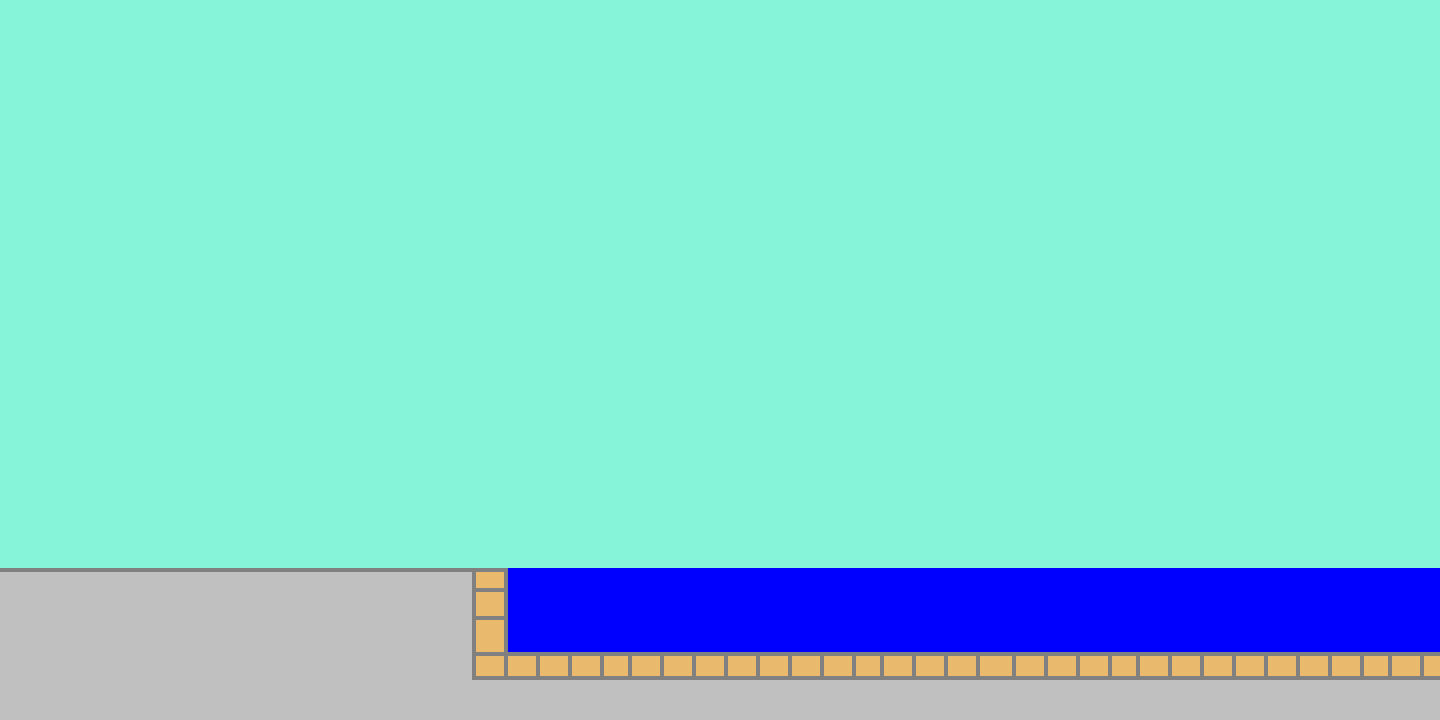
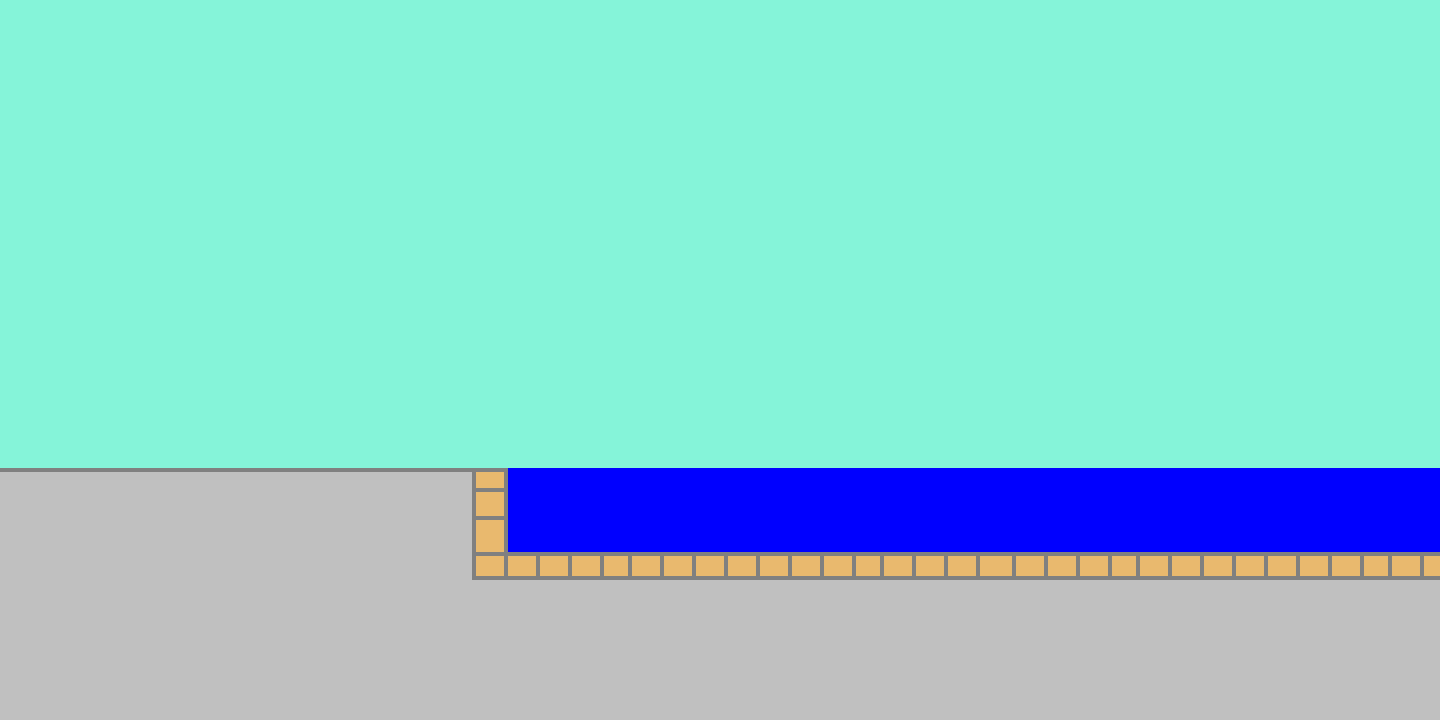
loading level two screen

Changed region(s): [[0.0, 0.6417, 1.0, 0.9472]]

diff --git a/lib/screens/level.two.dart b/lib/screens/level.two.dart
@@ -7,9 +7,12 @@ class LevelTwo extends StatefulWidget {
   _LevelTwoState createState() => _LevelTwoState();
 }
 
-class _LevelTwoState extends State<LevelTwo> {
+class _LevelTwoState extends State<LevelTwo> with TickerProviderStateMixin{
   @override
   Widget build(BuildContext context) {
+
+    xPos = moveAnimation.value;
+
     return Container(
       decoration: BoxDecoration(
         image: DecorationImage
@@ -19,11 +22,17 @@ class _LevelTwoState extends State<LevelTwo> {
       ),
       child: Column(
         children: <Widget>[
-          SizedBox(height: 270,),
+          SizedBox(height: 210,),
+          loadingLevelTwoScreen? 
+          Rute(
+            xOffset: 0,
+            yOffset: -400,
+            state : state,
+          )
+          :
           Rute(
             xOffset: xPos,
             yOffset: yPos,
-            state :ImageState.stillRight,
           )
         ],
       ),
@@ -34,8 +43,52 @@ class _LevelTwoState extends State<LevelTwo> {
   initState(){
     super.initState();
     Rute.folder = 'x2';
-    xPos = -350;
     yPos = 0;
-    
+    startLoading();
+    loadingLvl2AnimationController.forward();
+    startMoving();
+  }
+
+  void startLoading() {
+    loadingLvl2AnimationController = AnimationController(
+      duration: Duration(seconds: 2), vsync: this, value: 0.00);
+    loadingLvl2Animation =
+    Tween<double>(begin: 1200, end: 0).animate(loadingLvl2AnimationController)
+    ..addListener(() {
+      if(loadingLvl2Animation.value > 1000){
+        state = ImageState.rightRunning2;
+      }else if(loadingLvl2Animation.value > 900){
+        state = ImageState.rightRunning1;
+      }else if(loadingLvl2Animation.value > 800){
+        state = ImageState.leftRunning2;
+      }else if(loadingLvl2Animation.value > 700){
+        state = ImageState.leftRunning1;
+      }else if(loadingLvl2Animation.value > 600){
+        // state = ImageState.arrowOne;
+      } else if(loadingLvl2Animation.value > 500){
+        // state = ImageState.legUp1Left;
+      } else if(loadingLvl2Animation.value > 400){
+        // state = ImageState.legUp2Left;
+      } else if (loadingLvl2Animation.value > 300){
+        state = ImageState.stillLeft;
+      } else {
+        state = ImageState.stillRight;
+      }
+      if(loadingLvl2Animation.isCompleted){
+        loadingLevelTwoScreen = false;
+      }
+    setState(() {});});
+  }
+
+  void startMoving() {
+    moveAnimationController = AnimationController(
+      duration: Duration(seconds: 6), vsync: this, value: 0.05);
+    moveAnimation =
+    Tween<double>(begin: -392, end: 440).animate(moveAnimationController)
+    ..addListener(() {
+      if(moveAnimation.isCompleted){
+        Navigator.popAndPushNamed(context, 'level.three');
+      }
+    setState(() {});});
   }
 }

diff --git a/lib/components/components.dart b/lib/components/components.dart
@@ -20,7 +20,8 @@ AnimationController
   changeScreenDelayAnimationController,
   loadingAnimationController,
   loadingLvl1AnimationController,
-  levelOneArrowAnimationController;
+  levelOneArrowAnimationController,
+  loadingLvl2AnimationController;
 Animation 
   moveAnimation, 
   jumpAnimation, 
@@ -29,7 +30,8 @@ Animation
   changeScreenDelayAnimation,
   loadingAnimation,
   loadingLvl1Animation,
-  levelOneArrowAnimation;
+  levelOneArrowAnimation,
+  loadingLvl2Animation;
 double xPos = 0, yPos = 0, t = 0, s = 0, v = 0;
 Direction direction = Direction.right;
 ImageState state = ImageState.stillRight;
@@ -37,6 +39,7 @@ bool showOpenDoorButton = false;
 bool openingDoorSequence = false;
 bool loadingStartScreen = true;
 bool loadingLevelOneScreen = true;
+bool loadingLevelTwoScreen = true;
 bool showLevelOneArrow = false;
 bool removeLevelOneArrow = false;
 bool running = false;

diff --git a/lib/screens/start.screen.dart b/lib/screens/start.screen.dart
@@ -287,7 +287,7 @@ class _StartScreenState extends State<StartScreen>
   void dispose() {
     openDoorAnimationController.dispose();
     changeScreenDelayAnimationController.dispose();
-    loadingAnimationController.dispose();
+    // loadingAnimationController.dispose();
     super.dispose();
   }
 }

diff --git a/lib/screens/level.one.dart b/lib/screens/level.one.dart
@@ -49,7 +49,7 @@ class _LevelOneState extends State<LevelOne> with TickerProviderStateMixin{
           :
           Rute(
             xOffset: xPos,
-            yOffset: 200,
+            yOffset: -400,
             state: state
           ),
           SizedBox(height : 10),
